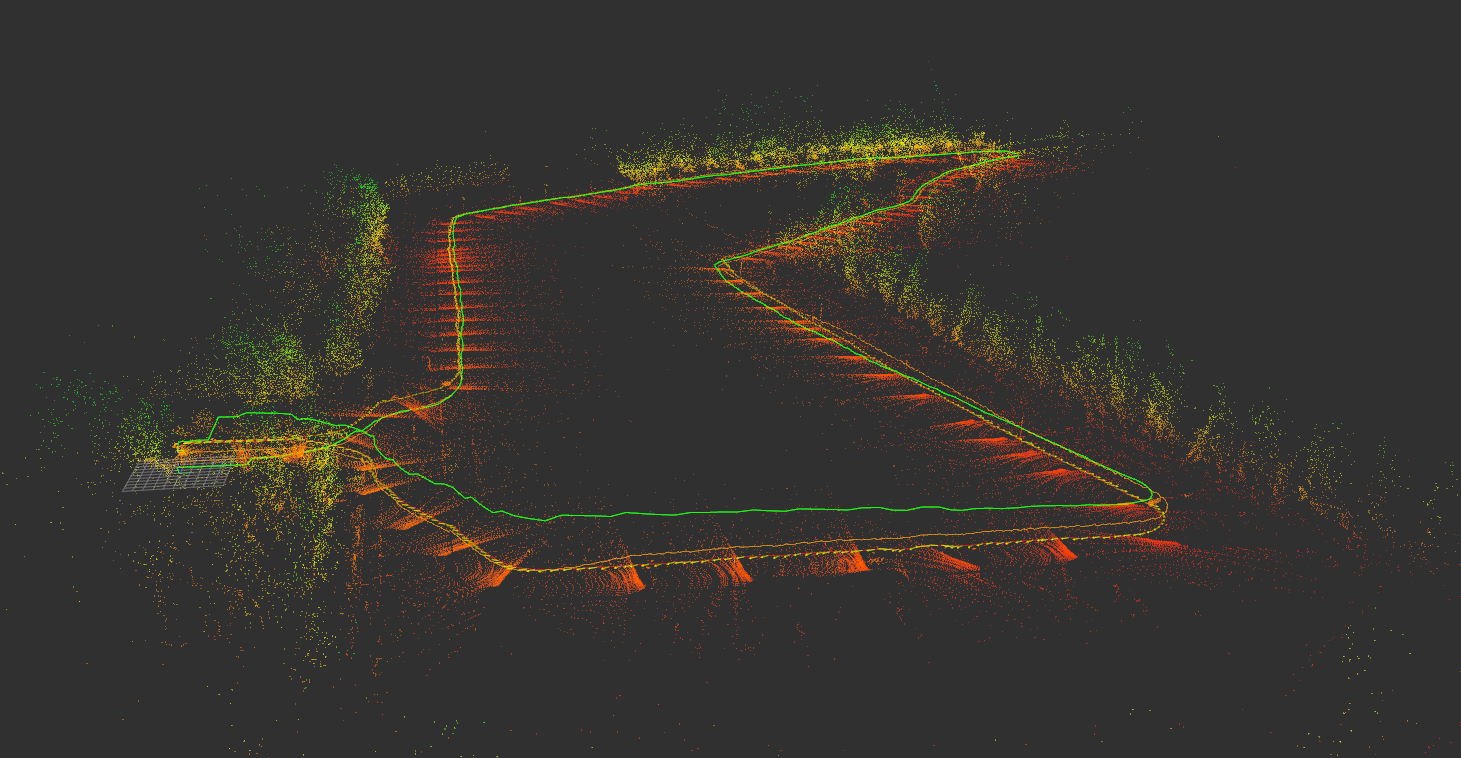
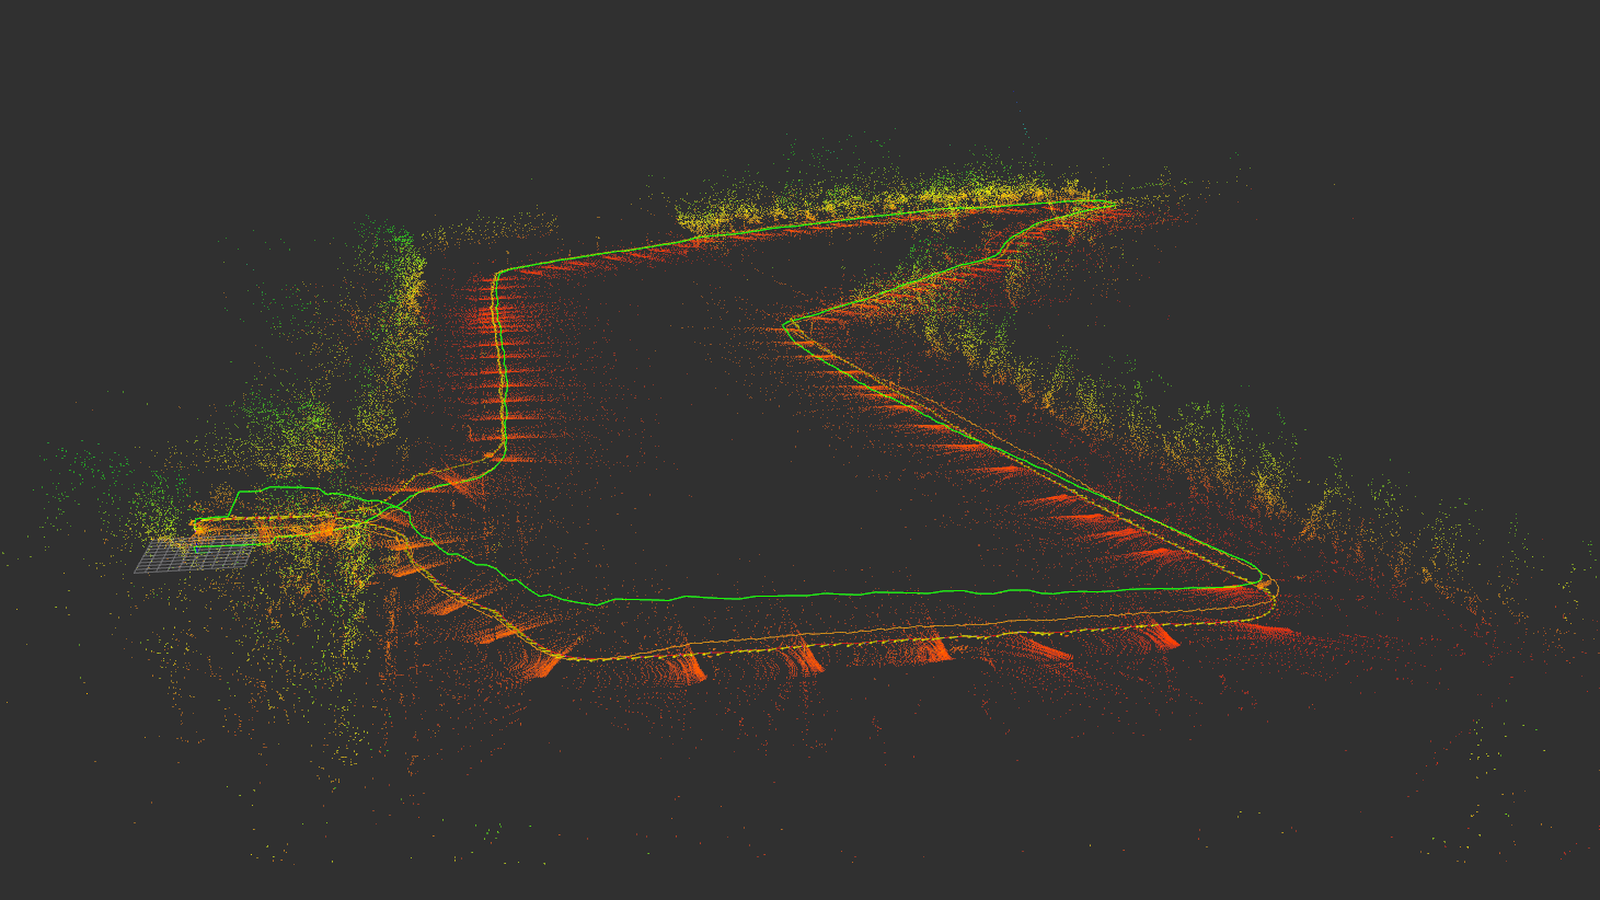
Update README imagesvis

Changed region(s): [[0.0616, 0.1517, 0.9548, 0.8193], [0.0924, 0.6979, 0.1232, 0.7586], [0.2156, 0.8193, 0.2464, 0.8496]]

diff --git a/README.md b/README.md
@@ -2,9 +2,9 @@
 
 A LiDAR-inertial SLAM system that integrates **FAST-LIO2** as the high-frequency frontend with a **LIO-SAM-style** factor graph backend for global optimization, supporting **RoboSense LiDARs**, **Unilidar LiDARs**, and compatible with both **ROS1** and **ROS2**.
 
-<p align='center'>
-    <img src="./assets/outdoor1.png " alt="drawing" width="200" height ="200"/>
-    <img src="./assets/outdoor2.png" alt="drawing" width="200" height =200/>
+<p align="center">
+  <img src="assets/outdoor1.png" alt="Outdoor 1" width="48%">
+  <img src="assets/outdoor2.png" alt="Outdoor 2" width="48%">
 </p>
 
 ## 🧩 Contributions
